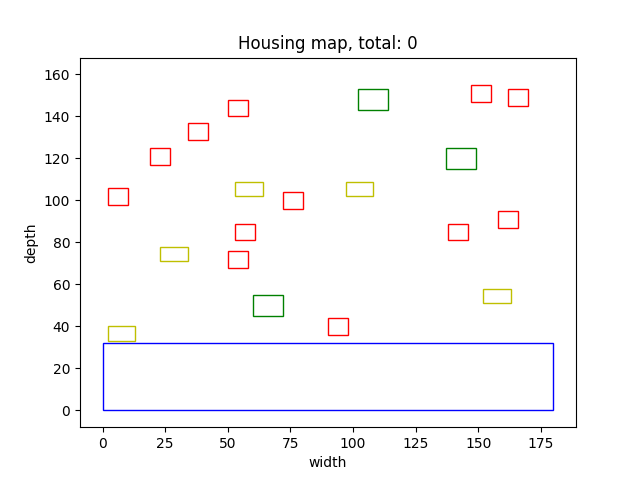
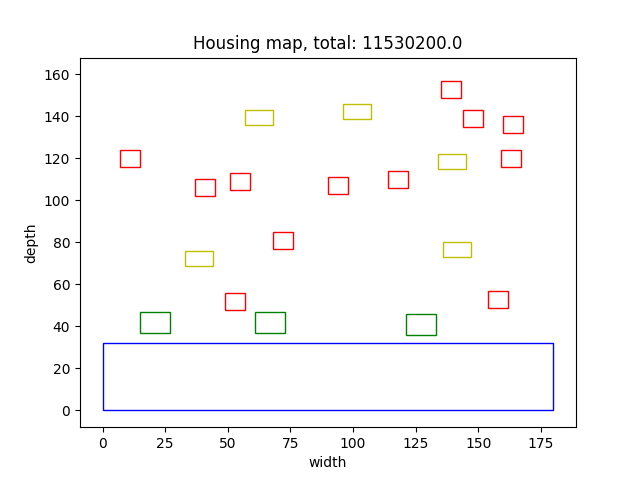
removed unecessary deepcopy lines

diff --git a/project_code/algorithms/hillclimber.py b/project_code/algorithms/hillclimber.py
@@ -14,8 +14,10 @@ class HillClimber():
         print(housing_map.total)
         copy_map = deepcopy(housing_map)
         generations = []
-        generations.append(copy_map)
-        for i in range(3):
+        generations.append("copy_map")
+        current_best_value = copy_map.total
+        counter = 0
+        for i in range(20):
             for house in copy_map.all_land_objects:
                 copy_map.total = 0
                 if house.name != "water":
@@ -25,56 +27,92 @@ class HillClimber():
                     house.move(1, 0)
                     copy_map.calculate_distance(copy_map.all_land_objects)
                     total_value_right = copy_map.calculate_price(copy_map.all_land_objects)
-                    copy_map_right = deepcopy(copy_map)
+                    # copy_map_right = deepcopy(copy_map)
                     house.move(-1, 0)
                     copy_map.total = 0
 
-                    if total_value_right > generations[0].total:
+                    if total_value_right > current_best_value:
                         generations.pop(0)
-                        generations.append(copy_map_right)
+                        # generations.append(copy_map_right)
+                        generations.append("right")
+                        current_best_value = total_value_right
 
                     # moves house to the left
                     house.move(-1, 0)
                     copy_map.calculate_distance(copy_map.all_land_objects)
                     total_value_left = copy_map.calculate_price(copy_map.all_land_objects)
-                    copy_map_left = deepcopy(copy_map)
+                    # copy_map_left = deepcopy(copy_map)
                     house.move(-1, 0)
                     copy_map.total = 0
 
-                    if total_value_left > generations[0].total:
+                    if total_value_left > current_best_value:
                         generations.pop(0)
-                        generations.append(copy_map_left)                
+                        # generations.append(copy_map_left)  
+                        generations.append("left")   
+                        current_best_value = total_value_left            
 
                     # moves house up
                     house.move(0, 1)
                     copy_map.calculate_distance(copy_map.all_land_objects)
                     total_value_up = copy_map.calculate_price(copy_map.all_land_objects)
-                    copy_map_up = deepcopy(copy_map)
+                    # copy_map_up = deepcopy(copy_map)
                     house.move(0, -1)
                     copy_map.total = 0
 
-                    if total_value_up > generations[0].total:
+                    if total_value_up > current_best_value:
                         generations.pop(0)
-                        generations.append(copy_map_up)
+                        # generations.append(copy_map_up)
+                        generations.append("up")
+                        current_best_value = total_value_up
 
                     # moves house down
                     house.move(0, -1)
                     copy_map.calculate_distance(copy_map.all_land_objects)
                     total_value_down = copy_map.calculate_price(copy_map.all_land_objects)
-                    copy_map_down = deepcopy(copy_map)
+                    # copy_map_down = deepcopy(copy_map)
                     house.move(0, 1)
                     copy_map.total = 0
 
-                    if total_value_down > generations[0].total:
+                    if total_value_down > current_best_value:
                         generations.pop(0)
-                        generations.append(copy_map_down)   
+                        # generations.append(copy_map_down)   
+                        generations.append("down")
+                        current_best_value = total_value_down
+                    
+                    if generations[0] == "right":
+                        house.move(1, 0)
+                        copy_map = deepcopy(copy_map)
 
-                    copy_map = deepcopy(generations[0])   
+                    elif generations[0] == "left":
+                        house.move(-1, 0)
+                        copy_map = deepcopy(copy_map)
+
+                    elif generations[0] == "up":
+                        house.move(0, 1)
+                        copy_map = deepcopy(copy_map)
+
+                    elif generations[0] == "down":
+                        house.move(0, -1)
+                        copy_map = deepcopy(copy_map)
+                    
+                    else:
+                        house.move(0, 0)
+                        copy_map = deepcopy(copy_map)
+
+                    # copy_map = deepcopy(generations[0])   
                     # print("one for loop done")
 
+            counter += 1
+            print(counter)
+
+        # calculates value for return object
+        copy_map.calculate_distance(copy_map.all_land_objects)
+        total_value_up = copy_map.calculate_price(copy_map.all_land_objects)
+
         print(f"copy map: {copy_map.total}")
-        print(f"copy map: {generations[0].total}")
-            
+        print(f"copy map: {generations[0]}")
+
+        return copy_map
         # visualise(copy_map.all_land_objects, copy_map.total)
 
 

diff --git a/main.py b/main.py
@@ -33,9 +33,9 @@ if __name__ == "__main__":
 
     # --------------------------- Hill Climber  --------------------------
     empty_graph = Land(f"data/{wijk_number}.csv")
-    starting_graph = Randomise(empty_graph, number_of_houses, 1)
+    starting_graph = Randomise(empty_graph, number_of_houses, 100)
     winner_graph = HillClimber(starting_graph.winner)
-    # visualise(winner_graph.winner.all_land_objects, winner_graph.winner.total)
+    visualise(winner_graph.winner.all_land_objects, winner_graph.winner.total)
 
     # ---------------------------------------------------------------------
 
